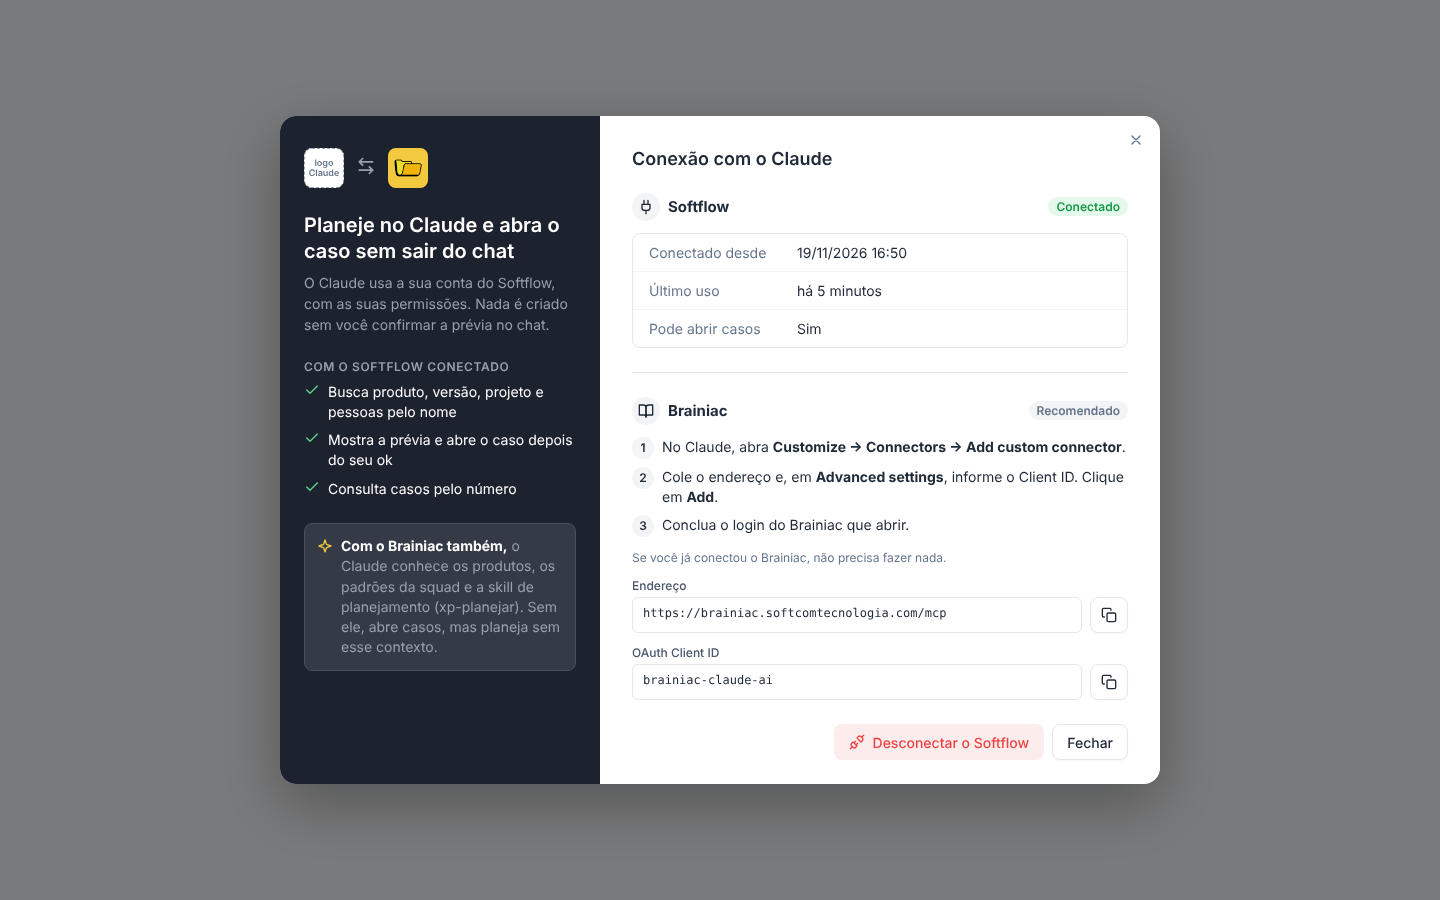
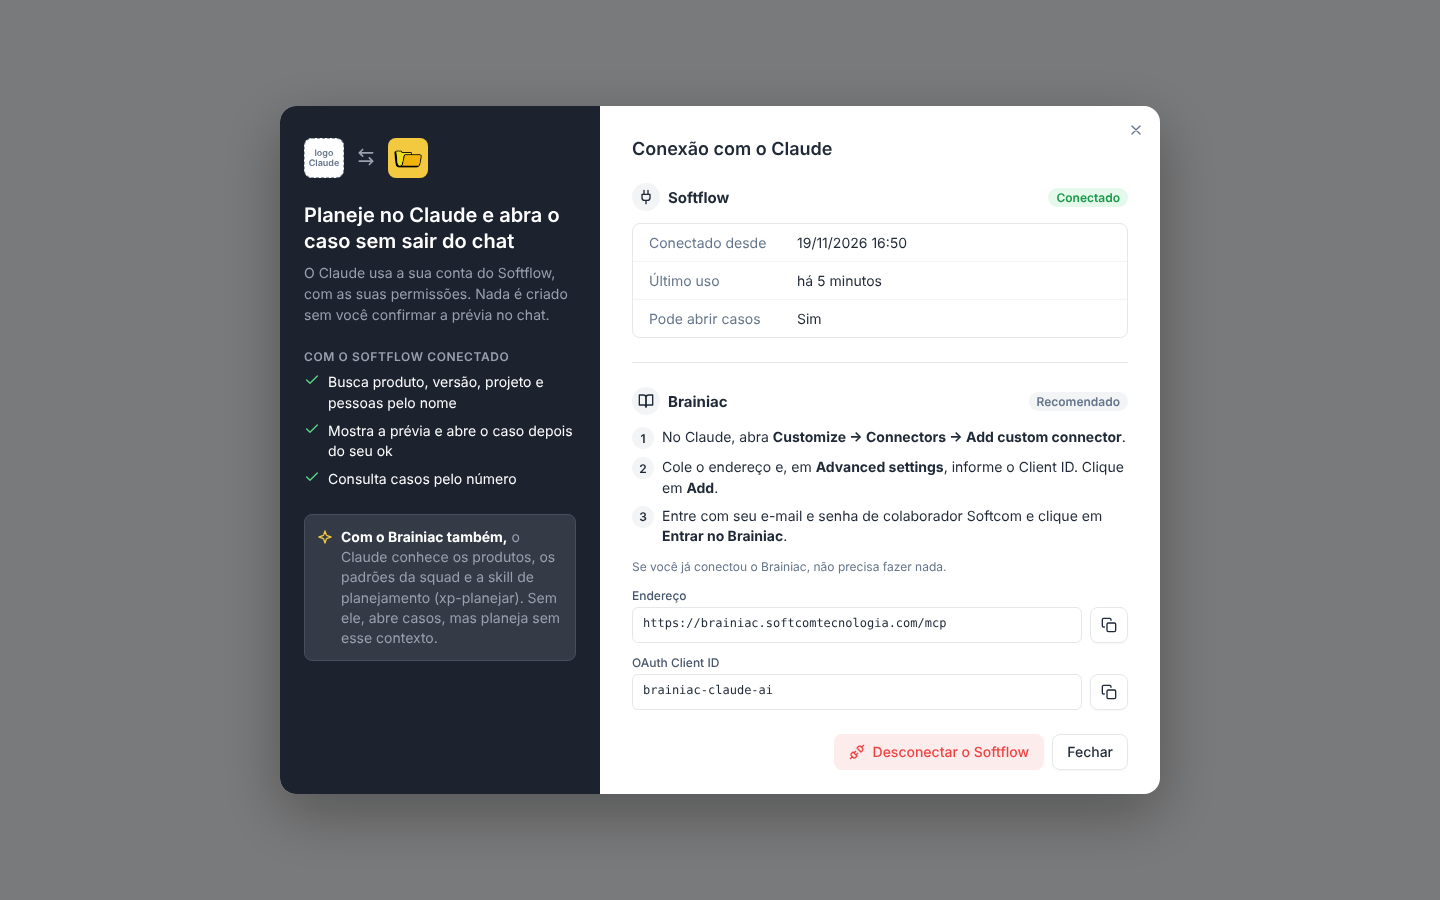
docs(conector-claude): passo 3 do Brainiac com o rótulo real do login
Claude-Session: https://claude.ai/code/session_01GaQZ7CaVWoarm8kGJnLeJC

diff --git a/docs/conector-claude/prototipo/modal-duas-colunas.html b/docs/conector-claude/prototipo/modal-duas-colunas.html
@@ -152,7 +152,7 @@
         <ol class="st brn-con">
           <li><span class="n">1</span><span>No Claude, abra <b>Customize → Connectors → Add custom connector</b>.</span></li>
           <li><span class="n">2</span><span>Cole o endereço e, em <b>Advanced settings</b>, informe o Client ID. Clique em <b>Add</b>.</span></li>
-          <li><span class="n">3</span><span>Conclua o login do Brainiac que abrir.</span></li>
+          <li><span class="n">3</span><span>Entre com seu e-mail e senha de colaborador Softcom e clique em <b>Entrar no Brainiac</b>.</span></li>
         </ol>
         <p class="note brn-con">Se você já conectou o Brainiac, não precisa fazer nada.</p>
         <div class="two">

diff --git a/docs/conector-claude/README.md b/docs/conector-claude/README.md
@@ -110,8 +110,8 @@ ler a skill de lá.
          logo acima);
        - Softflow conectado: os passos próprios, porque os do Softflow somem: 1. "No Claude, abra
          **Customize → Connectors → Add custom connector**." 2. "Cole o endereço e, em **Advanced
-         settings**, informe o Client ID. Clique em **Add**." 3. "Conclua o login do Brainiac que
-         abrir." e a nota "Se você já conectou o Brainiac, não precisa fazer nada.";
+         settings**, informe o Client ID. Clique em **Add**." 3. "Entre com seu e-mail e senha de
+         colaborador Softcom e clique em **Entrar no Brainiac**." e a nota "Se você já conectou o Brainiac, não precisa fazer nada.";
        - nos dois: **Endereço** e **OAuth Client ID**, um abaixo do outro, cada um com copiar só com
          ícone (`EnderecoCopiavel`, componente único para os três campos).
      - Rodapé: **Desconectar o Softflow** (só conectado, mesmo estilo de hoje) e **Fechar**.
@@ -149,8 +149,8 @@ ler a skill de lá.
 
 1. ~~Endereço do MCP do Brainiac~~: respondida em 2026-11-25 (`https://brainiac.softcomtecnologia.com/mcp`,
    Client ID `brainiac-claude-ai`).
-2. **(PO)** O nome do botão ou da tela de login do Brainiac, para trocar o passo 3 genérico ("Conclua
-   o login do Brainiac que abrir") pelo rótulo real. Não bloqueia.
+2. ~~Rótulo do login do Brainiac~~: respondida em 2026-11-25 com a tela de login dele (e-mail e senha
+   de colaborador Softcom, botão **Entrar no Brainiac**); entrou no passo 3.
 
 ### Plano de implementação
 
